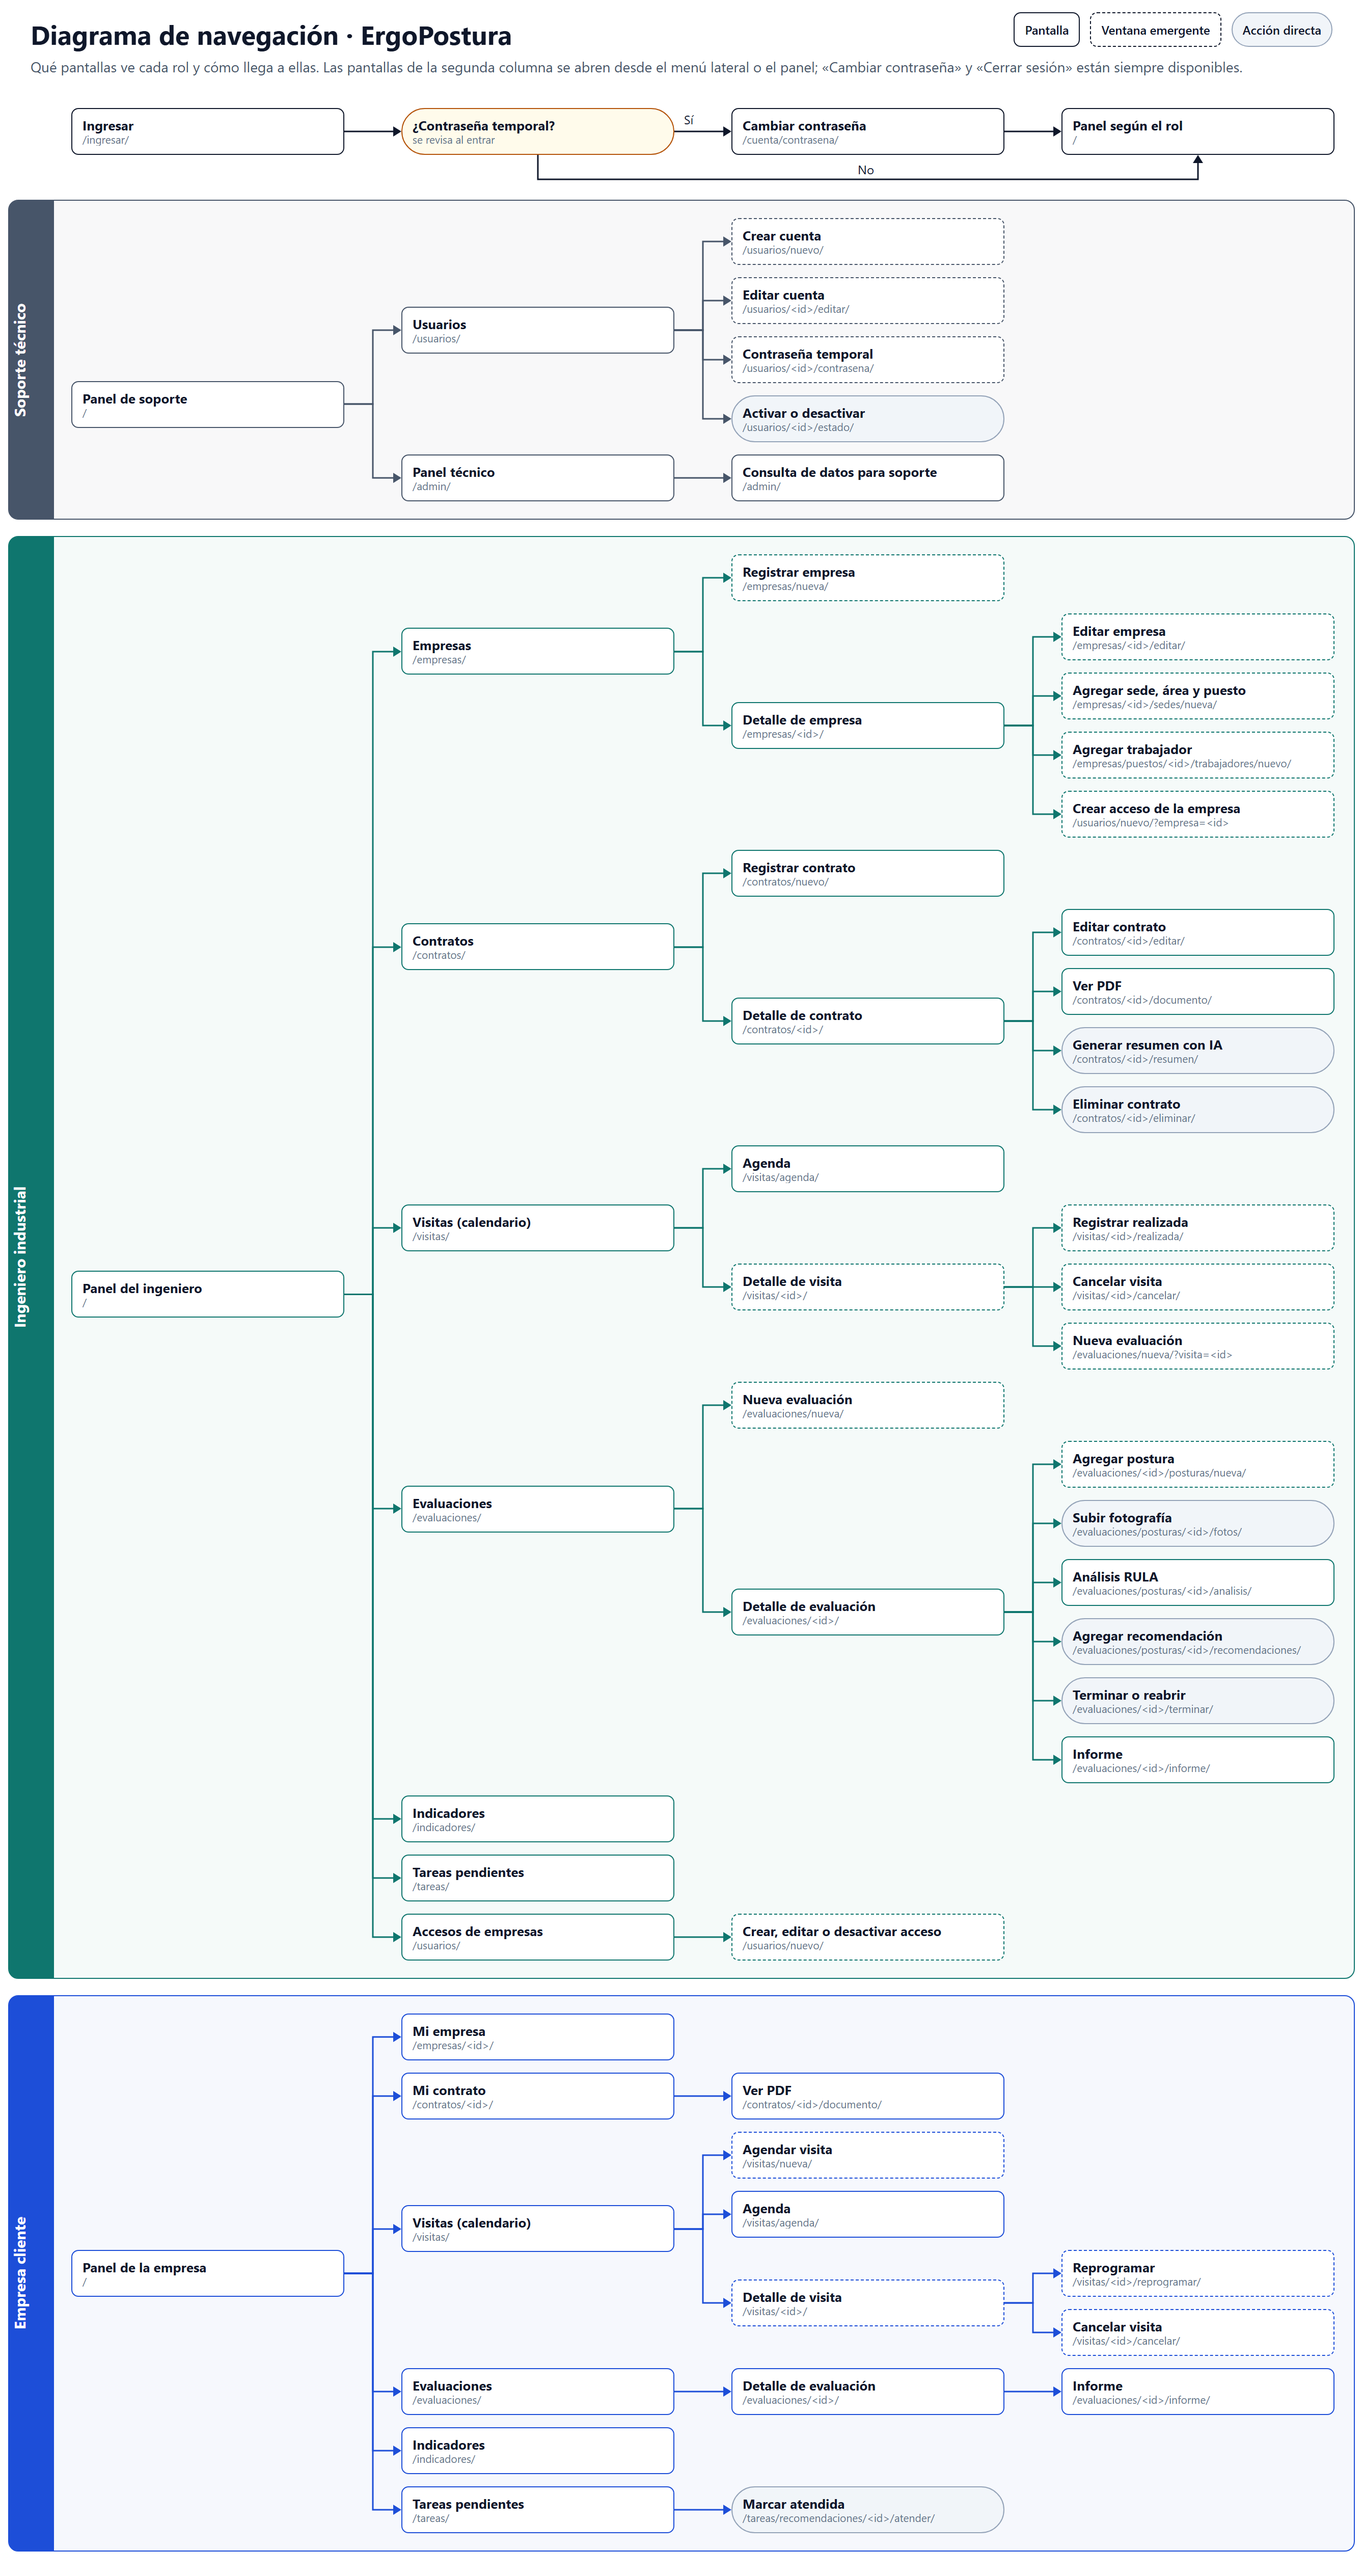
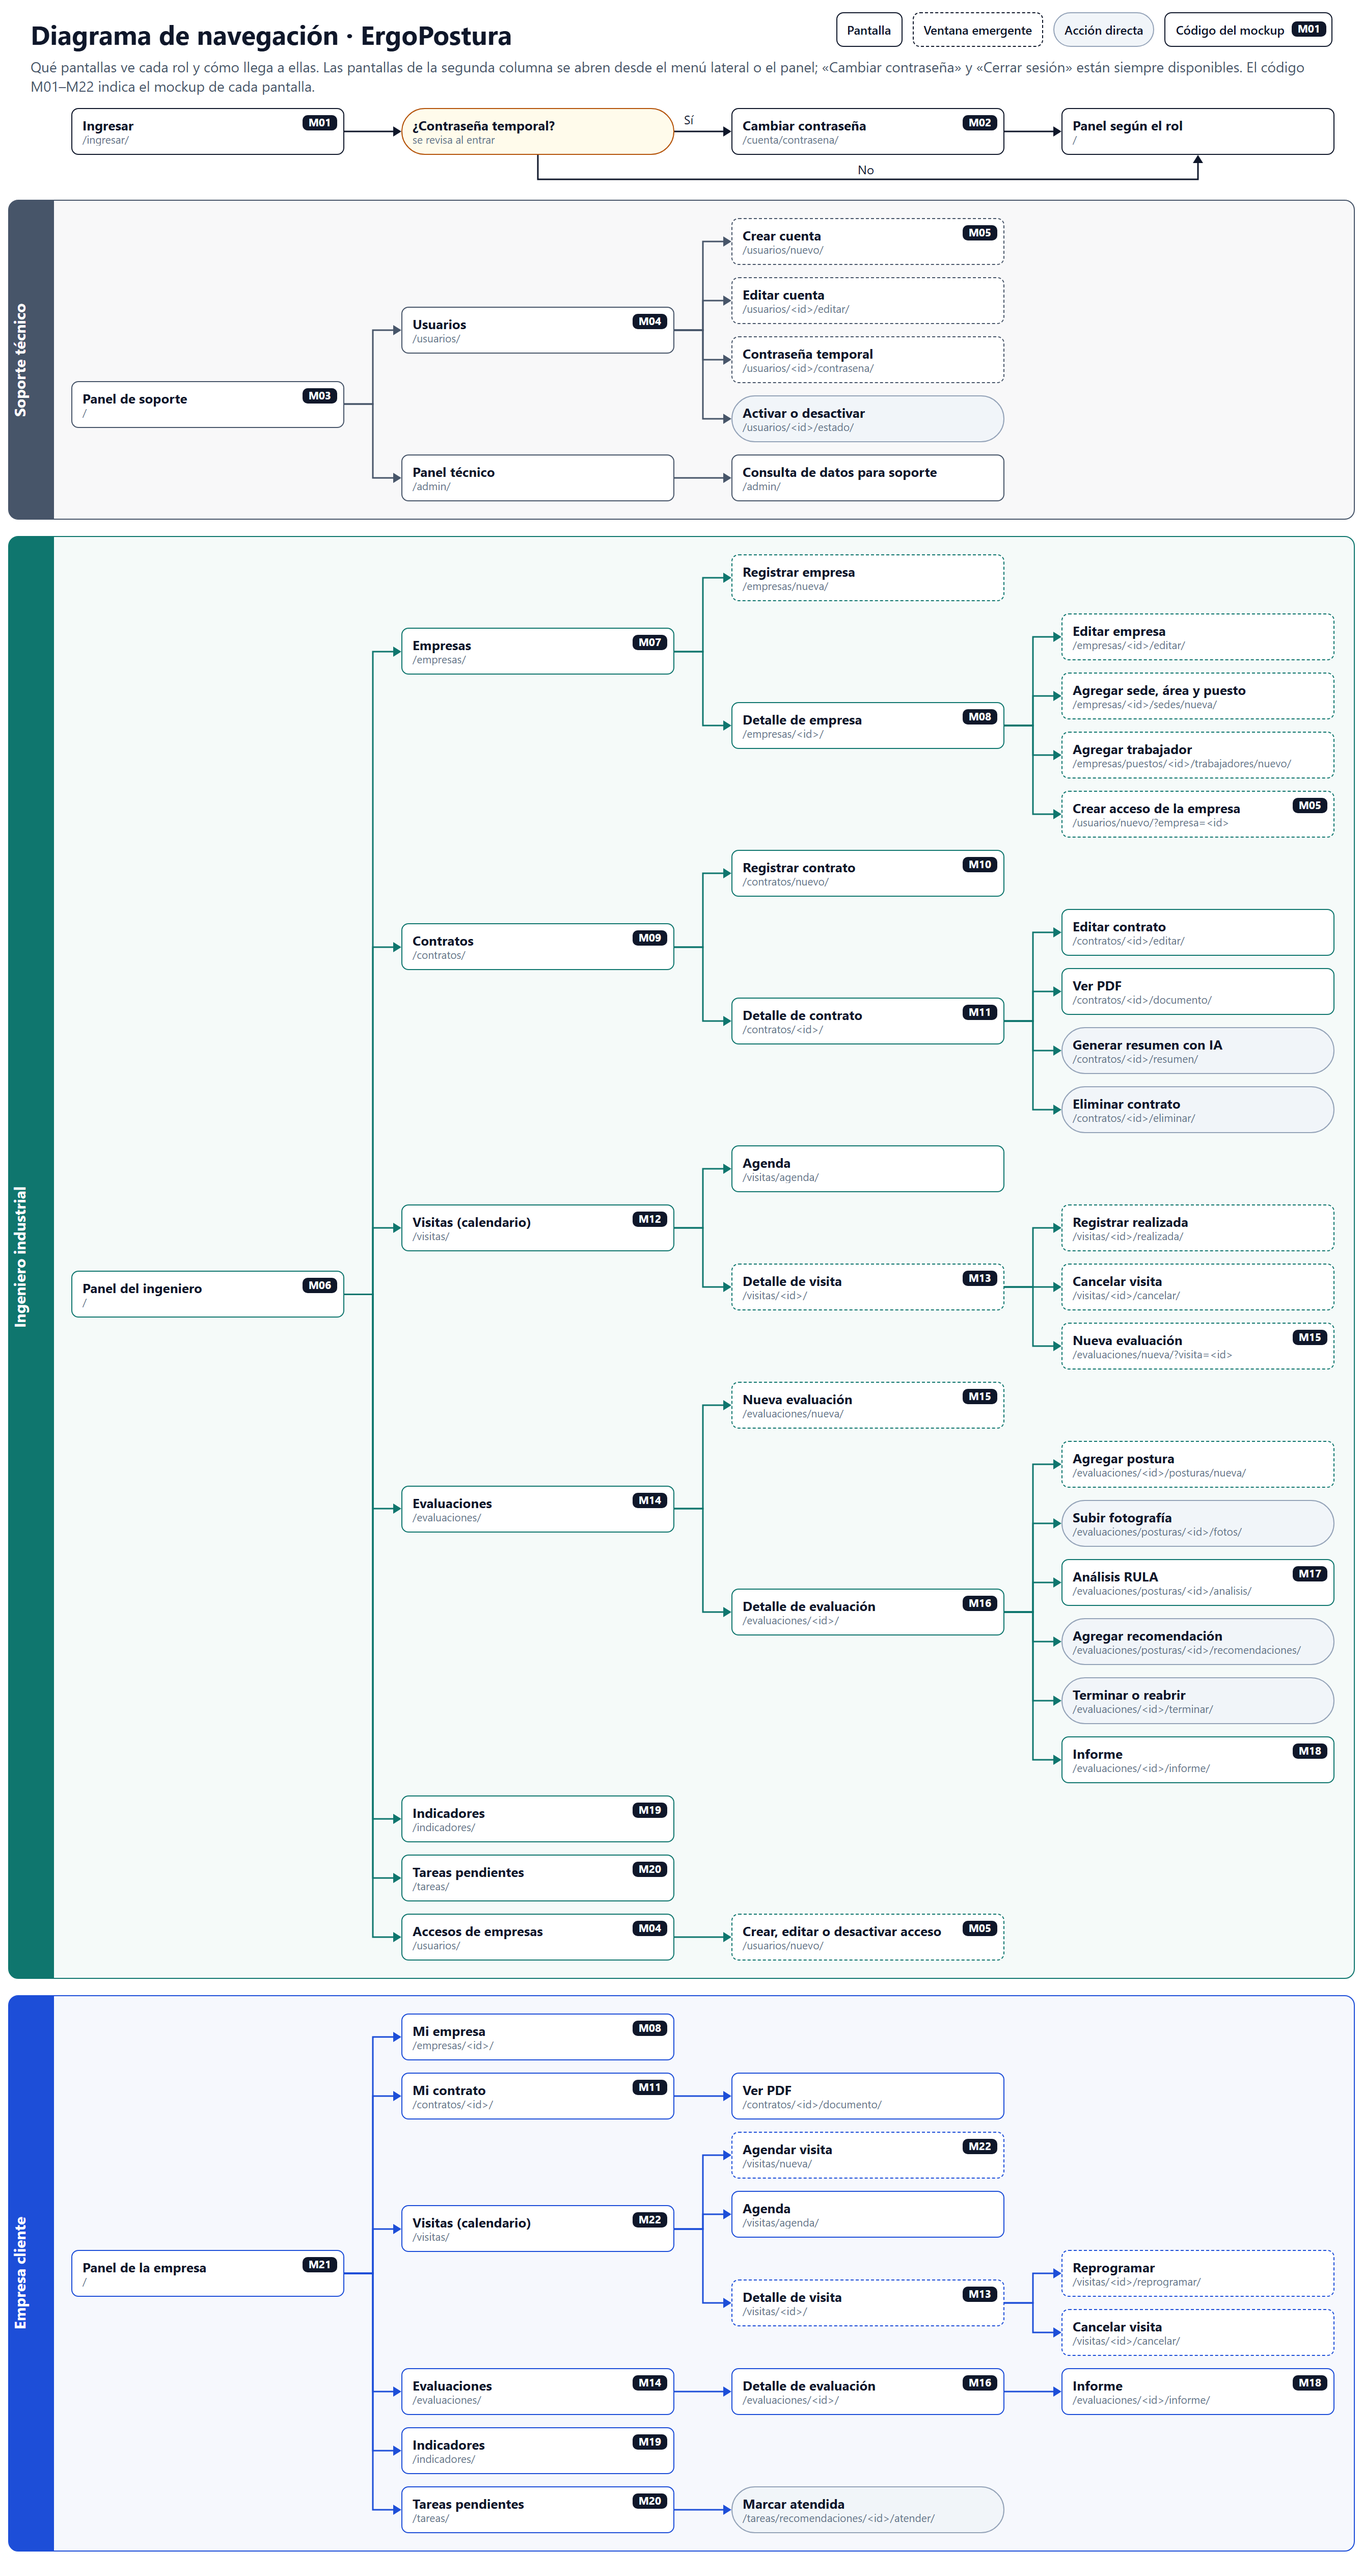
Agrega los mockups M01 a M22 y sus códigos en el diagrama de navegación

diff --git a/README.md b/README.md
@@ -76,7 +76,8 @@ Con `docker compose up` corriendo, crea una conexión con host `127.0.0.1`, puer
 - [docs/sql/esquema.sql](docs/sql/esquema.sql): estructura completa de la base en MySQL.
 - [docs/sql/consultas.sql](docs/sql/consultas.sql): consultas principales con nombre y descripción.
 - [docs/modelo-entidad-relacion.png](docs/modelo-entidad-relacion.png): modelo entidad-relación.
-- [docs/diagrama-navegacion.png](docs/diagrama-navegacion.png): pantallas y navegación por rol.
+- [docs/diagrama-navegacion.png](docs/diagrama-navegacion.png): pantallas y navegación por rol, con el código del mockup de cada pantalla.
+- [docs/mockups/](docs/mockups/): mockups M01 a M22 de las pantallas.
 - [docs/bpmn-as-is.png](docs/bpmn-as-is.png) y [docs/bpmn-to-be.png](docs/bpmn-to-be.png): proceso actual y proceso propuesto en BPMN.
 - [docs/vistas/](docs/vistas/): pantallazos de las vistas de cada rol, con datos de demostración.
 
